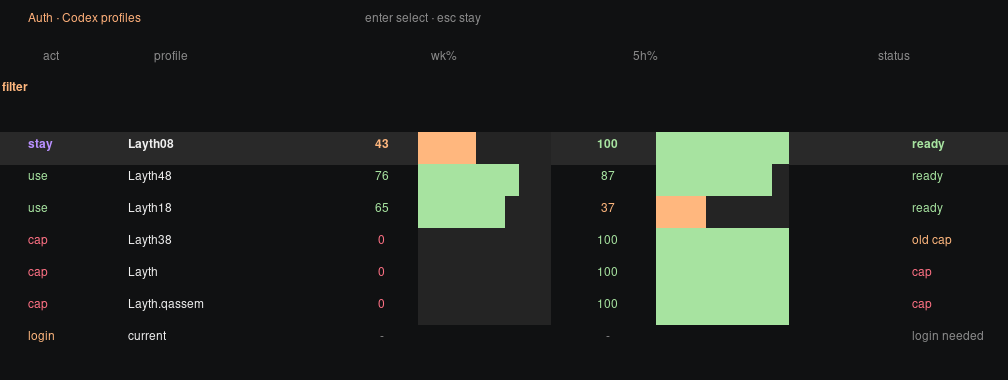
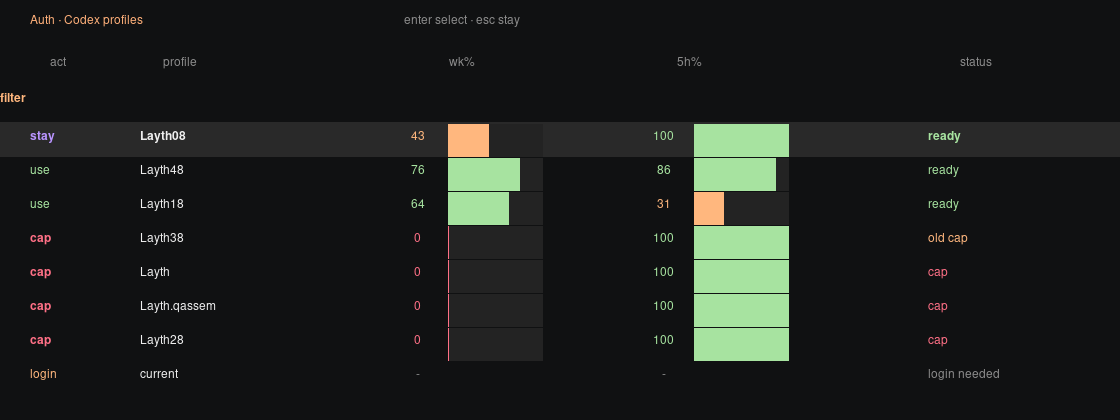
Add selector screenshot and scroll gif

diff --git a/README.md b/README.md
@@ -6,6 +6,8 @@ It keeps `auth.json` pointed at the best available profile before a session star
 
 ![Codex rolling auth selector](assets/usage-selector.png)
 
+![Codex rolling auth selector scroll](assets/usage-selector.gif)
+
 ## Install
 
 ```bash
@@ -64,3 +66,9 @@ codex resume 019e1af9-d95b-7f11-b1f0-aae08a7c4f1d
 - Set `CODEX_AUTH_CODEX_BIN=/path/to/codex` if the wrapper cannot find your real Codex binary.
 - Set `CODEX_AUTH_AUTO=0` to bypass automatic rolling for one command.
 - Set `CODEX_AUTH_USAGE_HEADER=1` or `CODEX_AUTH_USAGE_STATUS=1` if you want the full table header or status column back.
+
+## Regenerate Assets
+
+```bash
+node scripts/generate-assets.mjs
+```